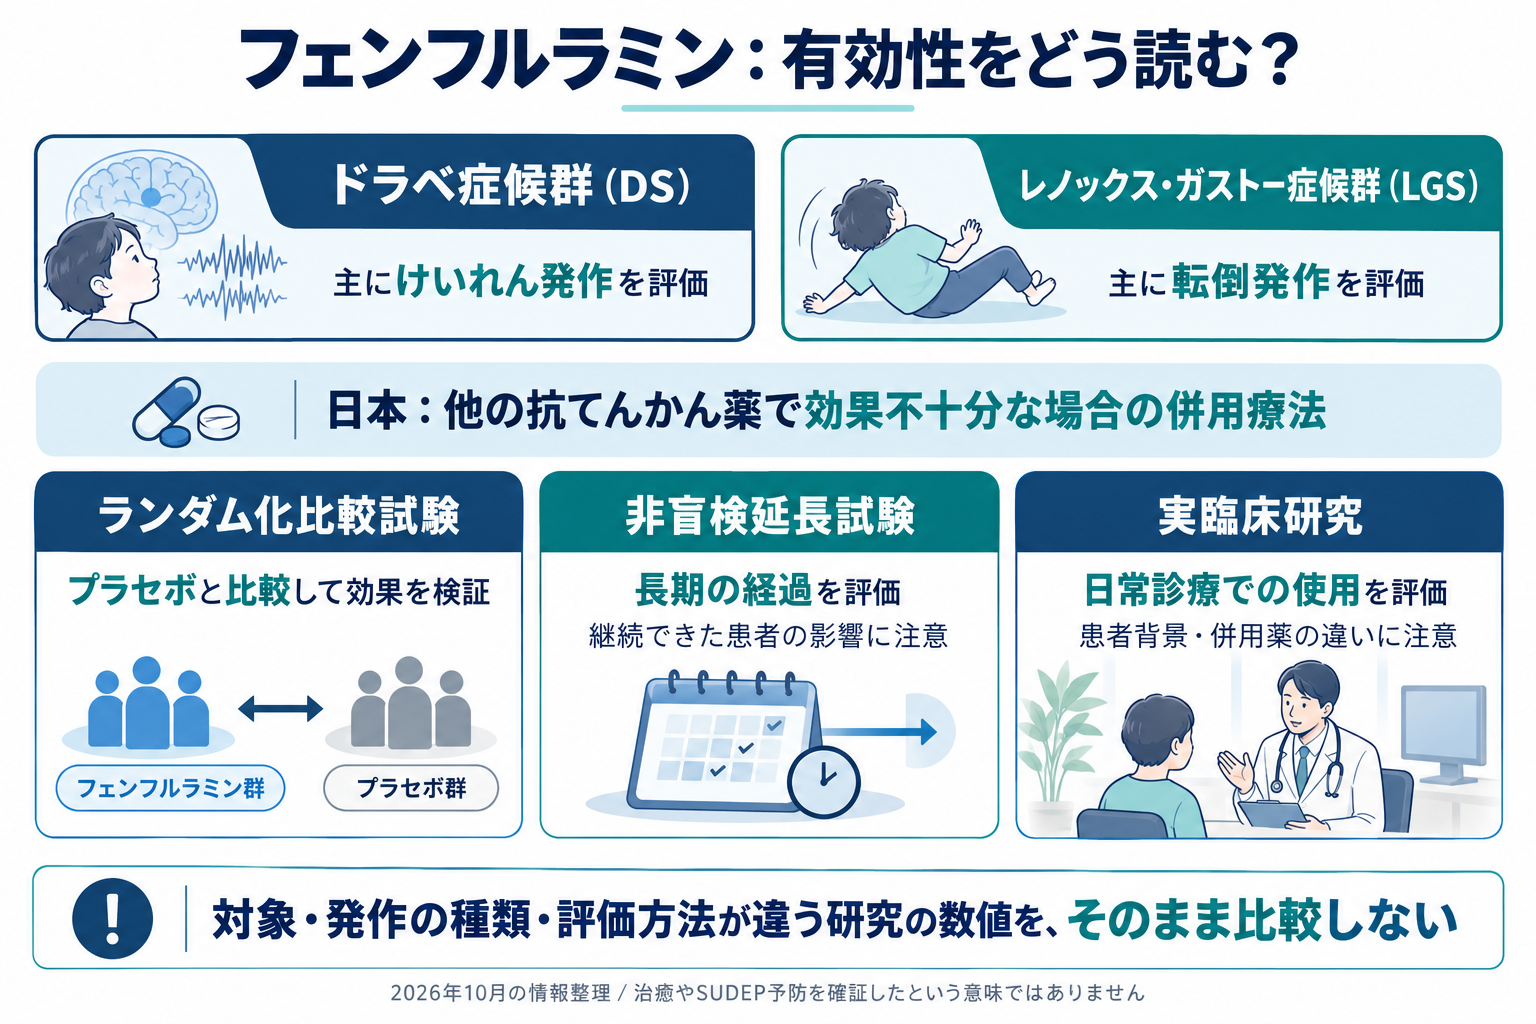
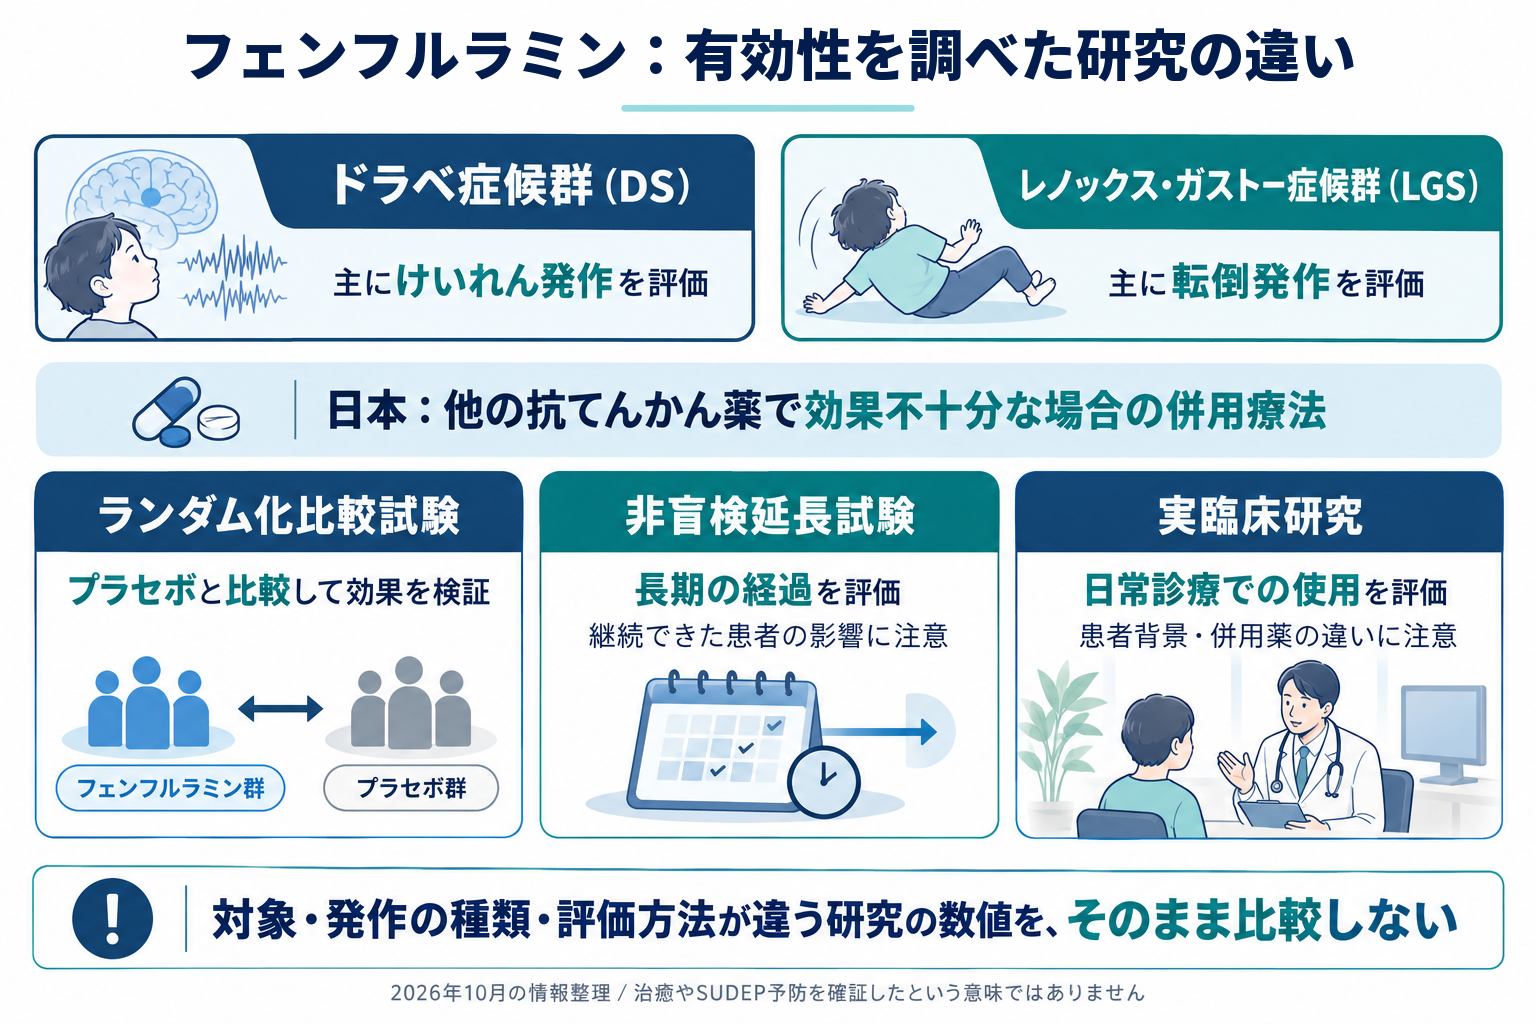
docs: add batch35 epilepsy-drug reference-repair infographics
Add zoom pages for the fenfluramine, cenobamate and levetiracetam
summary infographics, and retitle the fenfluramine efficacy figure
(「有効性をどう読む？」→「有効性を調べた研究の違い」; only the title band changed).

Changed region(s): [[0.125, 0.0312, 0.9062, 0.0938]]

diff --git a/infographics/fenfluramine-fintepla-reference-repair-20261027/index.html b/infographics/fenfluramine-fintepla-reference-repair-20261027/index.html
@@ -1,0 +1,1 @@
+<!doctype html><html lang="ja"><head><meta charset="utf-8"><meta name="viewport" content="width=device-width,initial-scale=1"><title>フェンフルラミン（フィンテプラ）による難治てんかんの治療｜図解｜医知創造ラボ</title><meta name="description" content="既存薬で十分な効果が得られないドラベ症候群・LGS患者の併用療法と安全管理"><style>body{margin:0;background:#f1f6fa;color:#17364d;font-family:"Yu Gothic",Meiryo,sans-serif;line-height:1.8}main{max-width:1100px;margin:auto;padding:18px}h1{font-size:1.6rem;line-height:1.5}figure{margin:28px 0;padding:16px;background:white;border-radius:12px}img{display:block;max-width:100%;height:auto;margin:auto}a{color:#075a93;overflow-wrap:anywhere}footer{padding:18px;border-top:1px solid #ccd}@media(max-width:600px){main{padding:12px}h1{font-size:1.25rem}figure{padding:8px}}</style></head><body><main><h1>フェンフルラミン（フィンテプラ）による難治てんかんの治療</h1><p>記事全体の要約図です。図は概念図であり、個別の治療判断には原資料と専門医の評価が必要です。</p><figure><a href="infographic.png" target="_blank" rel="noopener noreferrer"><img src="infographic.png" alt="既存薬で十分な効果が得られないドラベ症候群・LGS患者の併用療法と安全管理" width="1024" height="1536"></a><figcaption>既存薬で十分な効果が得られないドラベ症候群・LGS患者の併用療法と安全管理</figcaption><p><a href="infographic.png" target="_blank" rel="noopener noreferrer">画像を原寸で開く</a></p></figure><footer><p>根拠確認日：2026年10月27日</p><p><a href="https://blog.ichisouzo-lab.com/entry/2025/09/06/083747">解説記事へ戻る</a></p></footer></main></body></html>

diff --git a/infographics/levetiracetam-overview-reference-repair-20261027/index.html b/infographics/levetiracetam-overview-reference-repair-20261027/index.html
@@ -1,0 +1,1 @@
+<!doctype html><html lang="ja"><head><meta charset="utf-8"><meta name="viewport" content="width=device-width,initial-scale=1"><title>抗てんかん薬レベチラセタム：作用機序、適応症、有効性と安全性、最新知見｜図解｜医知創造ラボ</title><meta name="description" content="記事全体の要点"><style>body{margin:0;background:#f1f6fa;color:#17364d;font-family:"Yu Gothic",Meiryo,sans-serif;line-height:1.8}main{max-width:1100px;margin:auto;padding:18px}h1{font-size:1.6rem;line-height:1.5}figure{margin:28px 0;padding:16px;background:white;border-radius:12px}img{display:block;max-width:100%;height:auto;margin:auto}a{color:#075a93;overflow-wrap:anywhere}footer{padding:18px;border-top:1px solid #ccd}@media(max-width:600px){main{padding:12px}h1{font-size:1.25rem}figure{padding:8px}}</style></head><body><main><h1>抗てんかん薬レベチラセタム：作用機序、適応症、有効性と安全性、最新知見</h1><p>記事全体の要約図です。図は概念図であり、個別の治療判断には原資料と専門医の評価が必要です。</p><figure><a href="infographic.png" target="_blank" rel="noopener noreferrer"><img src="infographic.png" alt="記事全体の要点" width="1024" height="1536"></a><figcaption>記事全体の要点</figcaption><p><a href="infographic.png" target="_blank" rel="noopener noreferrer">画像を原寸で開く</a></p></figure><footer><p>根拠確認日：2026年10月27日</p><p><a href="https://blog.ichisouzo-lab.com/entry/2025/04/23/085755">解説記事へ戻る</a></p></footer></main></body></html>

diff --git a/infographics/cenobamate-focal-epilepsy-reference-repair-20261027/index.html b/infographics/cenobamate-focal-epilepsy-reference-repair-20261027/index.html
@@ -1,0 +1,1 @@
+<!doctype html><html lang="ja"><head><meta charset="utf-8"><meta name="viewport" content="width=device-width,initial-scale=1"><title>セノバメート：難治性焦点てんかんにおける新たな切り札｜図解｜医知創造ラボ</title><meta name="description" content="記事全体の要点"><style>body{margin:0;background:#f1f6fa;color:#17364d;font-family:"Yu Gothic",Meiryo,sans-serif;line-height:1.8}main{max-width:1100px;margin:auto;padding:18px}h1{font-size:1.6rem;line-height:1.5}figure{margin:28px 0;padding:16px;background:white;border-radius:12px}img{display:block;max-width:100%;height:auto;margin:auto}a{color:#075a93;overflow-wrap:anywhere}footer{padding:18px;border-top:1px solid #ccd}@media(max-width:600px){main{padding:12px}h1{font-size:1.25rem}figure{padding:8px}}</style></head><body><main><h1>セノバメート：難治性焦点てんかんにおける新たな切り札</h1><p>記事全体の要約図です。図は概念図であり、個別の治療判断には原資料と専門医の評価が必要です。</p><figure><a href="infographic.png" target="_blank" rel="noopener noreferrer"><img src="infographic.png" alt="記事全体の要点" width="1199" height="1312"></a><figcaption>記事全体の要点</figcaption><p><a href="infographic.png" target="_blank" rel="noopener noreferrer">画像を原寸で開く</a></p></figure><footer><p>根拠確認日：2026年10月27日</p><p><a href="https://blog.ichisouzo-lab.com/entry/2025/04/13/081920">解説記事へ戻る</a></p></footer></main></body></html>
